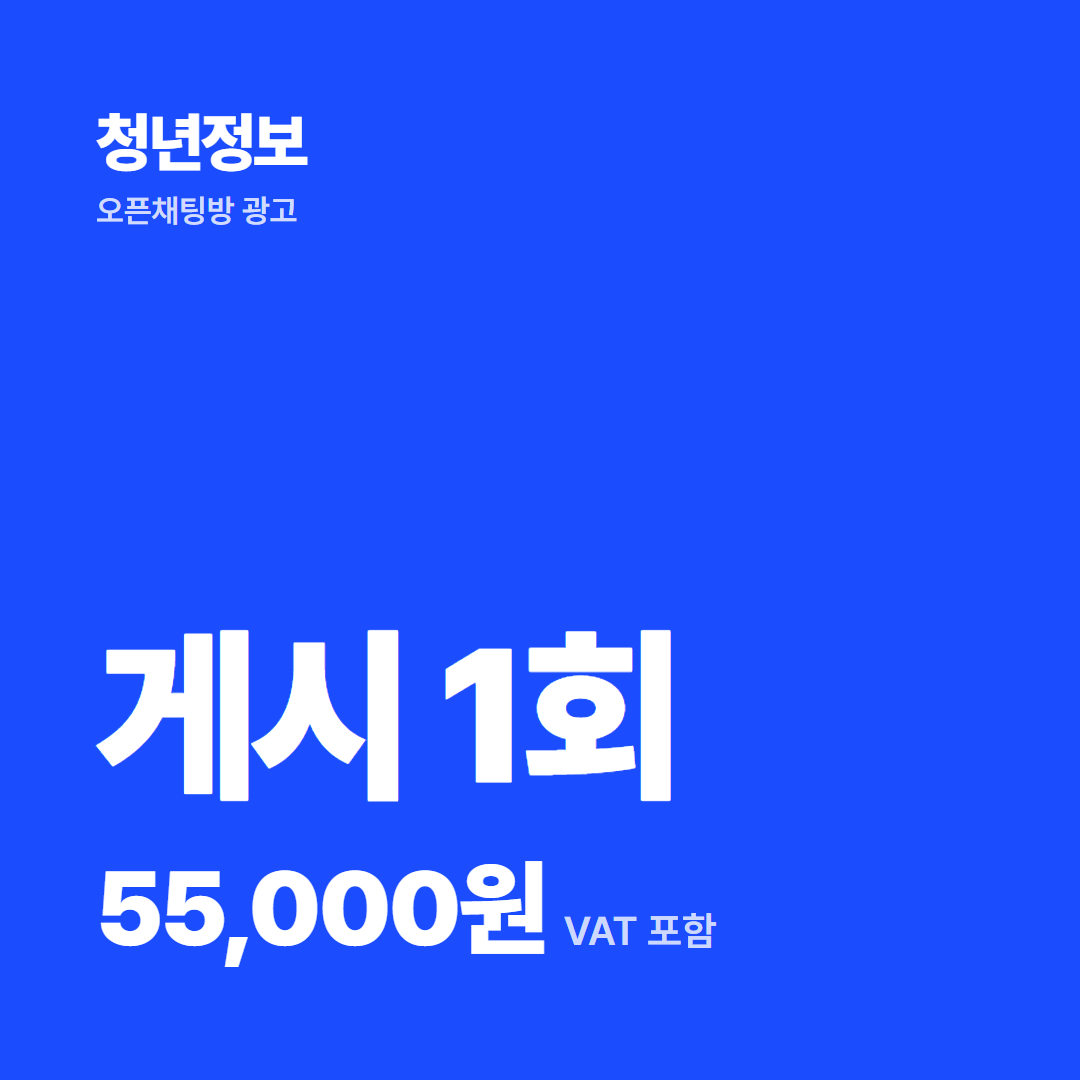
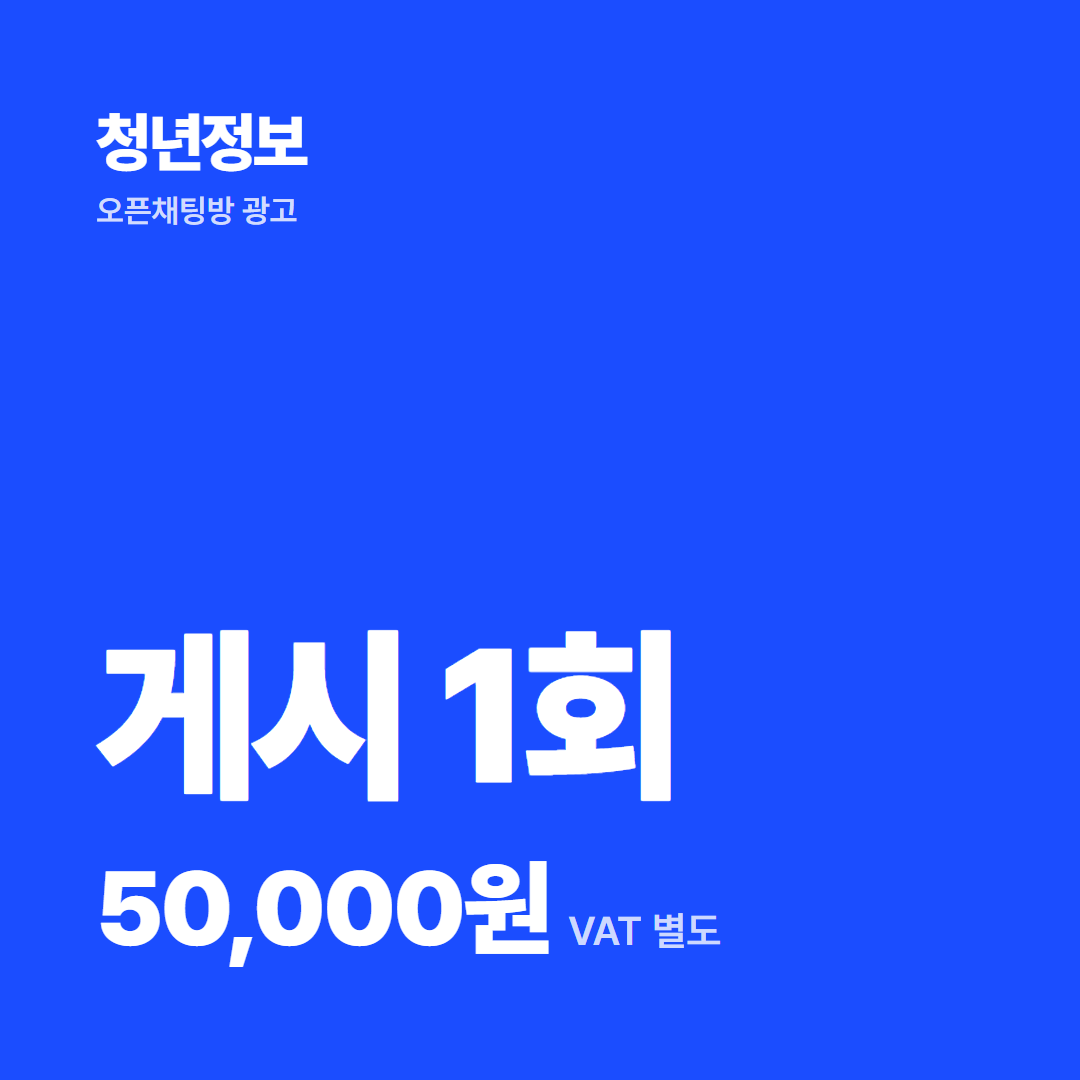
style: 광고금액 표기 5만/10만 + VAT 별도로 변경(폼·이미지 3종). 실결제액은 결제링크

Changed region(s): [[0.1528, 0.7944, 0.6722, 0.8861]]

diff --git a/index.html b/index.html
@@ -169,15 +169,15 @@
     <!-- 1. 상품 -->
     <section class="sec reveal" style="animation-delay:.08s">
       <div class="sec-h"><span class="sec-n">1</span><span class="sec-t">상품 선택</span></div>
-      <button type="button" class="plan" data-code="A" data-price="55,000">
+      <button type="button" class="plan" data-code="A" data-price="50,000">
         <span class="radio"></span>
         <span class="info"><span class="nm">게시 1회</span><span class="desc">[광고] 표기 업로드 · 다음날 자정까지 노출 유지</span></span>
-        <span class="price">55,000원</span>
+        <span class="price">50,000원</span>
       </button>
-      <button type="button" class="plan sel" data-code="B" data-price="110,000">
+      <button type="button" class="plan sel" data-code="B" data-price="100,000">
         <span class="radio"></span>
         <span class="info"><span class="nm">게시 1회 + 공지 고정 24h <span class="badge-best">BEST</span></span><span class="desc">게시 + 채팅방 공지 상단 24시간 고정</span></span>
-        <span class="price">110,000원</span>
+        <span class="price">100,000원</span>
       </button>
     </section>
 
@@ -260,7 +260,7 @@
 <!-- STICKY CTA -->
 <div class="cta" id="cta">
   <div class="cta-in">
-    <div class="sum"><div class="sl">총 결제 예정</div><div class="sp"><span id="sumPrice">110,000원</span><small>VAT 포함</small></div></div>
+    <div class="sum"><div class="sl">광고 금액</div><div class="sp"><span id="sumPrice">100,000원</span><small>VAT 별도</small></div></div>
     <button class="btn" id="submit" form="form" type="submit">검수 신청하기</button>
   </div>
 </div>

diff --git a/payment_images/src/detail.html b/payment_images/src/detail.html
@@ -22,8 +22,8 @@
   <div class="lead">청년 주거 정보방에<br>광고를 노출하세요</div>
   <div class="members">청년 주거·주택 실수요 타깃이 모인 정보방</div>
   <div class="card">
-    <div class="row"><span class="name">게시 1회</span><span class="p">55,000원</span></div>
-    <div class="row"><span class="name">게시 1회 + 공지 고정 24h</span><span class="p">110,000원</span></div>
+    <div class="row"><span class="name">게시 1회</span><span class="p">50,000원</span></div>
+    <div class="row"><span class="name">게시 1회 + 공지 고정 24h</span><span class="p">100,000원</span></div>
   </div>
-  <div class="note">[광고] 표기 · 문구·이미지 사전 검수 후 게시</div>
+  <div class="note">가격 VAT 별도 · [광고] 표기 · 문구·이미지 사전 검수 후 게시</div>
 </div></body></html>

diff --git a/payment_images/src/pin.html b/payment_images/src/pin.html
@@ -21,5 +21,5 @@
   <div class="spacer"></div>
   <div class="title">게시 1회</div>
   <div class="add">＋ 공지 고정 24시간</div>
-  <div class="price">110,000원<span class="vat">VAT 포함</span></div>
+  <div class="price">100,000원<span class="vat">VAT 별도</span></div>
 </div></body></html>

diff --git a/payment_images/src/basic.html b/payment_images/src/basic.html
@@ -17,5 +17,5 @@
   <div class="tagline">오픈채팅방 광고</div>
   <div class="spacer"></div>
   <div class="title">게시 1회</div>
-  <div class="price">55,000원<span class="vat">VAT 포함</span></div>
+  <div class="price">50,000원<span class="vat">VAT 별도</span></div>
 </div></body></html>
